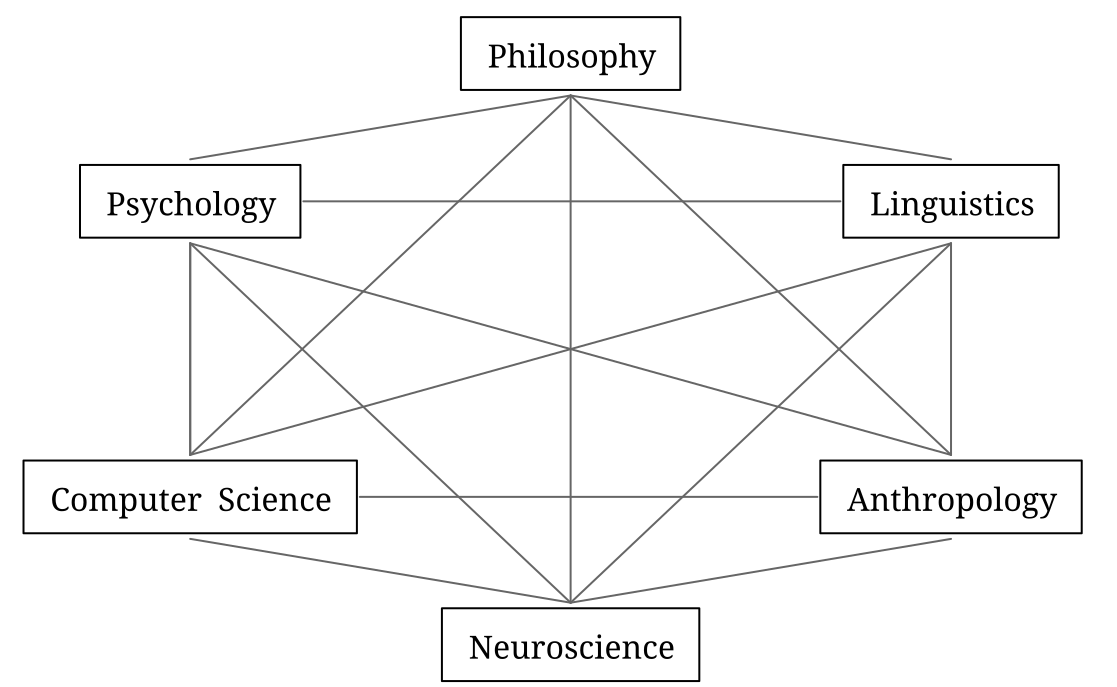
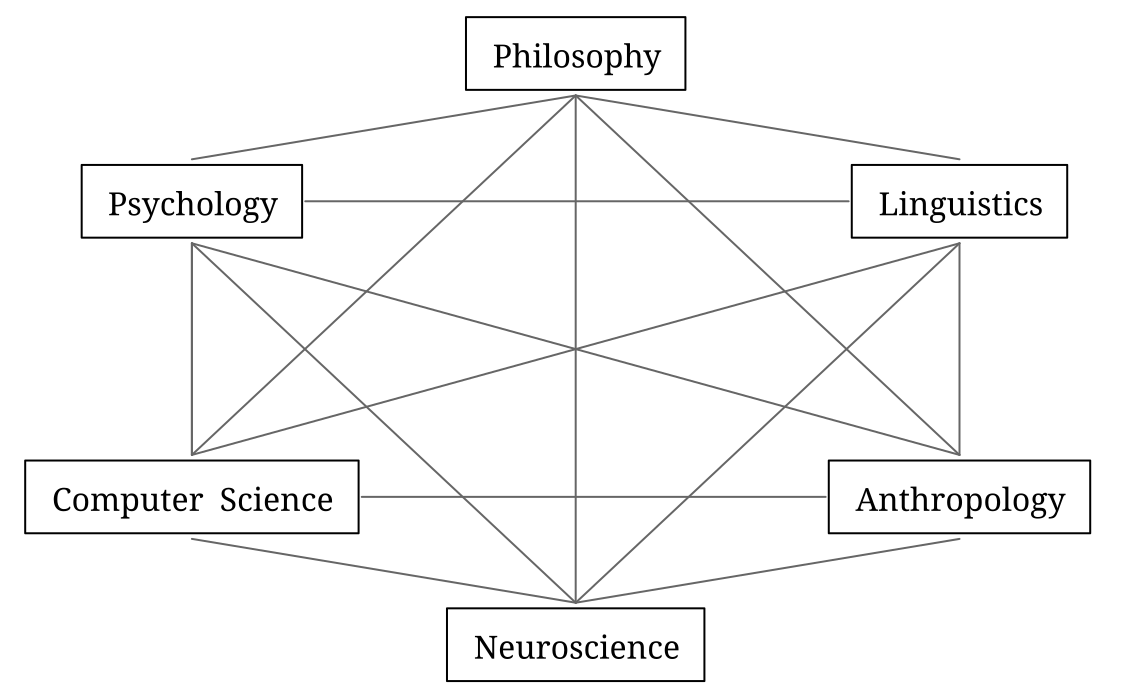
Set example 41 to a spacing the web interface offers
The gallery is a promise the web interface has to keep: a reader who
likes a figure pastes it into the editor and expects it back. This one
asked for a horizontal spacing of 0.7, which the menu has never
offered; 0.75 is the nearest value. Adding 0.7 to the menu a hair away
from an existing value is worse than moving the figure, and the
difference is not visible at this size.

Regenerated in the Docker image the rest of the gallery uses, so the
figure is measured against the same fonts as its neighbours.

diff --git a/docs/_examples/041.md b/docs/_examples/041.md
@@ -9,7 +9,7 @@ connector: "auto"
 connector_height: "1.5"
 linewidth: "1"
 hide_default_connectors: "on"
-hspacing: "0.7"
+hspacing: "0.75"
 tidy: "symmetric"
 font: "Noto Serif"
 reference: "Miller et al. 1978"
